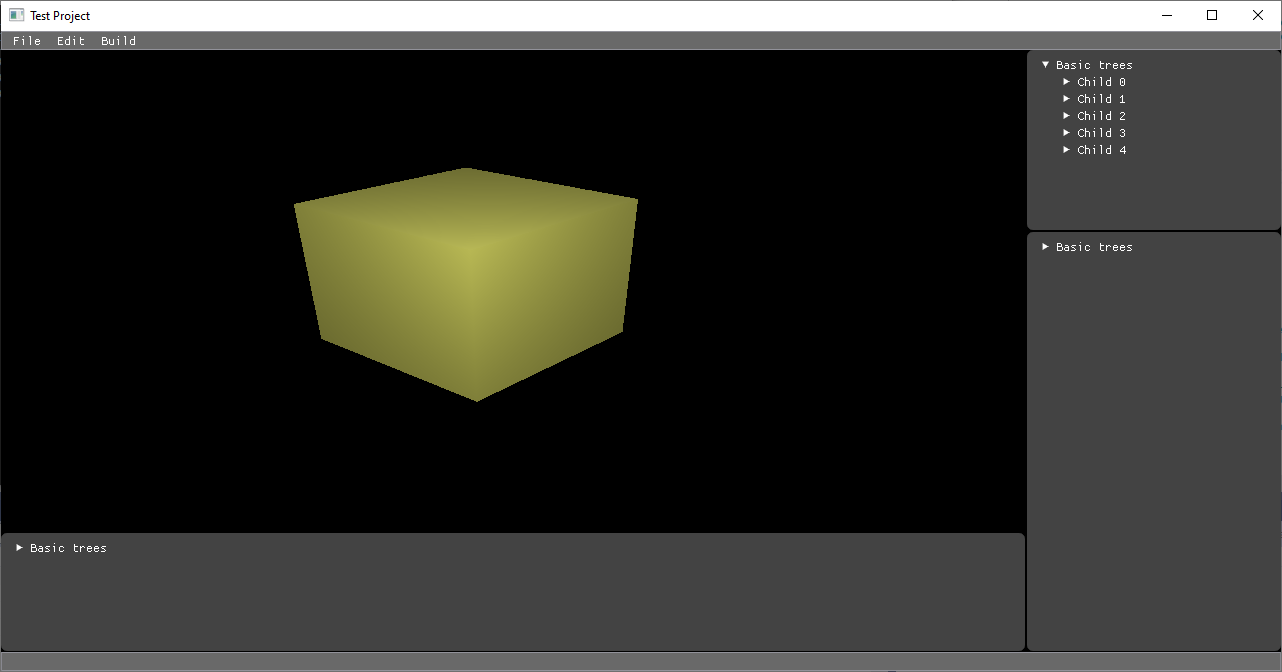
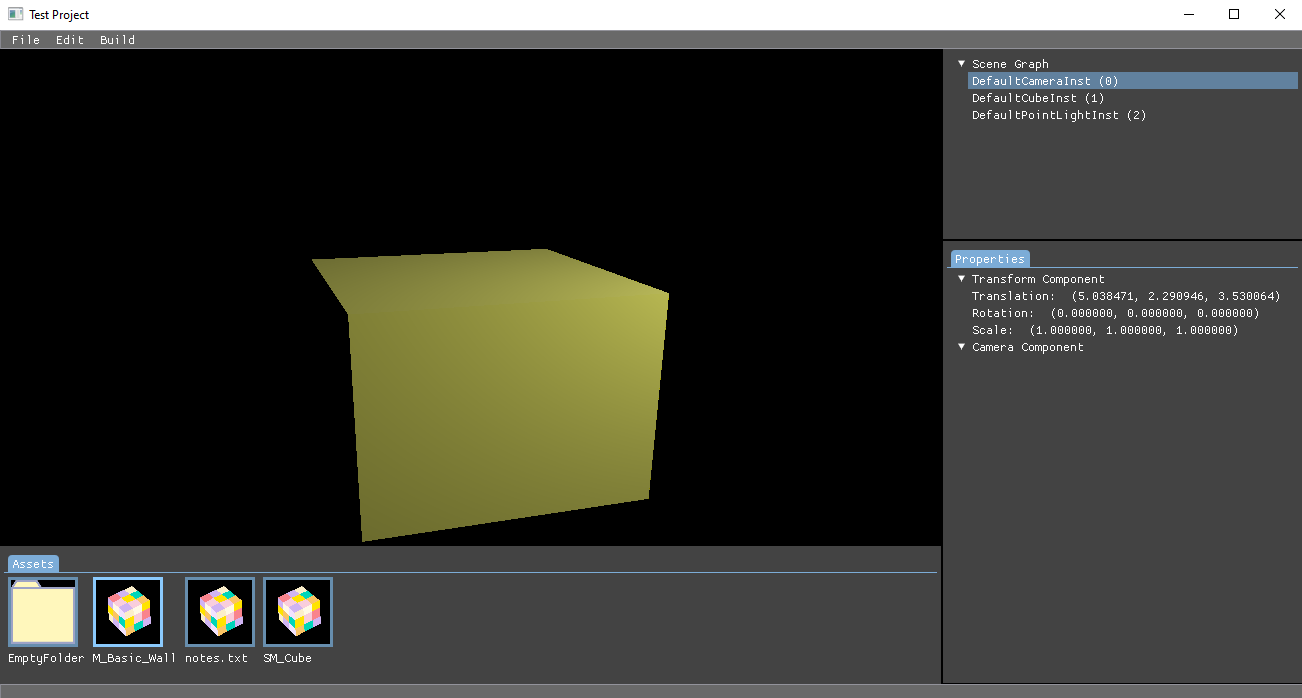
Asset Folder assets show

Changed region(s): [[0.0, 0.0, 1.0, 1.0]]

diff --git a/editor/HedgeEditorGuiManager.cpp b/editor/HedgeEditorGuiManager.cpp
@@ -1,4 +1,5 @@
 #include "HedgeEditorGuiManager.h"
+#include "../core/HAssetRsrcManager.h"
 
 #include "imgui.h"
 #include "CustomDearImGuiLayout.h"
@@ -9,6 +10,8 @@
 #include "../scene/HScene.h"
 #include "../core/HEntity.h"
 #include "../core/HComponent.h"
+
+#include <filesystem>
 
 #include "stb_image.h"
 
@@ -30,6 +33,7 @@ namespace Hedge
     HedgeEditorGuiManager::~HedgeEditorGuiManager()
     {
         g_pGpuRsrcManager->DereferGpuImg(m_pAssetIconImg);
+        g_pGpuRsrcManager->DereferGpuImg(m_pFolderIconImg);
         delete m_pLayout;
     }
 
@@ -184,6 +188,31 @@ namespace Hedge
     }
 
     // ================================================================================================================
+    bool IsHAssetPackage(
+        std::string& pathStr)
+    {
+        bool isHAssetPackage = false;
+        for (const auto& entry : std::filesystem::directory_iterator(pathStr))
+        {
+            if (entry.is_regular_file())
+            {
+                std::string fileName = entry.path().filename().string();
+                if (fileName.size() > 3)
+                {
+                    std::string lastThree = fileName.substr(fileName.size() - 3);
+                    if (lastThree.compare("yml") == 0)
+                    {
+                        isHAssetPackage = true;
+                        break;
+                    }
+                }
+            }
+            
+        }
+        return isHAssetPackage;
+    }
+
+    // ================================================================================================================
     void HedgeEditorGuiManager::AssetWindow()
     {
         constexpr ImGuiWindowFlags TestWindowFlag = ImGuiWindowFlags_NoSavedSettings |
@@ -197,36 +226,60 @@ namespace Hedge
         ImGui::Begin("AssetWindow", nullptr, TestWindowFlag);
         
         HedgeEditorGuiManager* pEditorGuiManager = g_raiiManager.GetHedgeEditorGuiManager();
+        std::string assetFolderPath = g_raiiManager.GetAssetRsrcManager()->GetAssetFolderPath();
+        
 
         if (ImGui::BeginTabBar("##Tabs", ImGuiTabBarFlags_None))
         {
             if (ImGui::BeginTabItem("Assets"))
             {
-                for (int i = 0; i < 8; i++)
+                for(const auto& entry : std::filesystem::directory_iterator(assetFolderPath))
                 {
                     // UV coordinates are often (0.0f, 0.0f) and (1.0f, 1.0f) to display an entire textures.
                     // Here are trying to display only a 32x32 pixels area of the texture, hence the UV computation.
                     // Read about UV coordinates here: https://github.com/ocornut/imgui/wiki/Image-Loading-and-Displaying-Examples
-                    ImGui::PushID(i);
-                    if (i > 0)
-                    {
-                        ImGui::PushStyleVar(ImGuiStyleVar_FramePadding, ImVec2(i - 1.0f, i - 1.0f));
-                    }
+                    // ImGui::PushID(i);
+                    ImGui::PushStyleVar(ImGuiStyleVar_FramePadding, ImVec2(3.f, 3.f));
 
                     ImVec2 size = ImVec2(64.0f, 64.0f);                         // Size of the image we want to make visible
                     ImVec2 uv0 = ImVec2(0.0f, 0.0f);                            // UV coordinates for lower-left
                     ImVec2 uv1 = ImVec2(1.f, 1.f);    // UV coordinates for (32,32) in our texture
                     ImVec4 bg_col = ImVec4(0.0f, 0.0f, 0.0f, 1.0f);             // Black background
                     ImVec4 tint_col = ImVec4(1.0f, 1.0f, 1.0f, 1.0f);           // No tint
-                    if (ImGui::ImageButton("", (ImTextureID)pEditorGuiManager->m_assetIconDescSet, size, uv0, uv1, bg_col, tint_col))
+                    
+                    ImGui::BeginGroup();
+
+                    if (entry.is_regular_file())
                     {
-                        std::cout << "Asset button pushed" << std::endl;
+                        if (ImGui::ImageButton("", (ImTextureID)pEditorGuiManager->m_assetIconDescSet, size, uv0, uv1, bg_col, tint_col))
+                        {
+                            std::cout << "Asset file button pushed" << std::endl;
+                        }
                     }
-                    if (i > 0)
+                    else if (entry.is_directory())
                     {
-                        ImGui::PopStyleVar();
+                        if (IsHAssetPackage(entry.path().string()))
+                        {
+                            if (ImGui::ImageButton("", (ImTextureID)pEditorGuiManager->m_assetIconDescSet, size, uv0, uv1, bg_col, tint_col))
+                            {
+                                std::cout << "HAsset button pushed" << std::endl;
+                            }
+                        }
+                        else
+                        {
+                            if (ImGui::ImageButton("", (ImTextureID)pEditorGuiManager->m_folderIconDescSet, size, uv0, uv1, bg_col, tint_col))
+                            {
+                                std::cout << "Folder button pushed" << std::endl;
+                            }
+                        }
                     }
-                    ImGui::PopID();
+
+                    ImGui::Text(entry.path().filename().string().c_str());
+
+                    ImGui::EndGroup();
+
+                    ImGui::PopStyleVar();
+                    // ImGui::PopID();
                     ImGui::SameLine();
                 }
 
@@ -235,22 +288,6 @@ namespace Hedge
             ImGui::EndTabBar();
         }
 
-        /*
-        if (ImGui::TreeNode("Assets"))
-        {
-            for (int i = 0; i < 5; i++)
-            {
-                if (ImGui::TreeNode((void*)(intptr_t)i, "Child %d", i))
-                {
-                    ImGui::Text("blah blah");
-                    ImGui::SameLine();
-                    if (ImGui::SmallButton("button")) {}
-                    ImGui::TreePop();
-                }
-            }
-            ImGui::TreePop();
-        }
-        */
         ImGui::End();
         ImGui::PopStyleVar(1);
     }
@@ -508,35 +545,72 @@ namespace Hedge
         std::string editorRsrcDir(getenv("HEDGE_LIB"));
         editorRsrcDir += "\\EditorRsrcs";
 
-        std::string editorAssetIconAssetName = editorRsrcDir + "\\AssetIcon.png";
-
-        int iconWidth = 0;
-        int iconHeight = 0;
-        int iconComponent = 0;
-
-        unsigned char* iconData = stbi_load(editorAssetIconAssetName.c_str(),
-            &iconWidth, &iconHeight, &iconComponent, 0);
-
-        HGpuImgCreateInfo iconImgCreateInfo{};
+        // Load editor's asset icon image
         {
-            iconImgCreateInfo.allocFlags = VMA_ALLOCATION_CREATE_DEDICATED_MEMORY_BIT |
-                VMA_ALLOCATION_CREATE_HOST_ACCESS_SEQUENTIAL_WRITE_BIT;
-            iconImgCreateInfo.hasSampler = true;
-            iconImgCreateInfo.samplerInfo = Util::LinearRepeatSamplerInfo();
-            iconImgCreateInfo.imgExtent = Util::Depth1Extent3D(iconWidth, iconHeight);
-            iconImgCreateInfo.imgFormat = VK_FORMAT_R8G8B8A8_UNORM;
-            iconImgCreateInfo.imgSubresRange = Util::ImgSubRsrcRangeTexColor2D();
-            iconImgCreateInfo.imgUsageFlags = VK_IMAGE_USAGE_TRANSFER_DST_BIT | VK_IMAGE_USAGE_SAMPLED_BIT;
-            iconImgCreateInfo.imgViewType = VK_IMAGE_VIEW_TYPE_2D;
+            std::string editorAssetIconAssetName = editorRsrcDir + "\\AssetIcon.png";
+
+            int iconWidth = 0;
+            int iconHeight = 0;
+            int iconComponent = 0;
+
+            unsigned char* iconData = stbi_load(editorAssetIconAssetName.c_str(),
+                &iconWidth, &iconHeight, &iconComponent, 0);
+
+            HGpuImgCreateInfo iconImgCreateInfo{};
+            {
+                iconImgCreateInfo.allocFlags = VMA_ALLOCATION_CREATE_DEDICATED_MEMORY_BIT |
+                    VMA_ALLOCATION_CREATE_HOST_ACCESS_SEQUENTIAL_WRITE_BIT;
+                iconImgCreateInfo.hasSampler = true;
+                iconImgCreateInfo.samplerInfo = Util::LinearRepeatSamplerInfo();
+                iconImgCreateInfo.imgExtent = Util::Depth1Extent3D(iconWidth, iconHeight);
+                iconImgCreateInfo.imgFormat = VK_FORMAT_R8G8B8A8_UNORM;
+                iconImgCreateInfo.imgSubresRange = Util::ImgSubRsrcRangeTexColor2D();
+                iconImgCreateInfo.imgUsageFlags = VK_IMAGE_USAGE_TRANSFER_DST_BIT | VK_IMAGE_USAGE_SAMPLED_BIT;
+                iconImgCreateInfo.imgViewType = VK_IMAGE_VIEW_TYPE_2D;
+            }
+            m_pAssetIconImg = g_pGpuRsrcManager->CreateGpuImage(iconImgCreateInfo, "Editor Asset Icon PNG");
+
+            g_pGpuRsrcManager->SendDataToImage(m_pAssetIconImg,
+                Util::BufferImg2DCopy(iconWidth, iconHeight),
+                (void*)iconData, iconWidth * iconHeight * 4);
+
+            g_pGpuRsrcManager->TransImageLayout(m_pAssetIconImg, VK_IMAGE_LAYOUT_SHADER_READ_ONLY_OPTIMAL);
+
+            AddTextureToImGUI(&m_assetIconDescSet, m_pAssetIconImg);
         }
-        m_pAssetIconImg = g_pGpuRsrcManager->CreateGpuImage(iconImgCreateInfo, "Editor Asset Icon PNG");
+        
+        // Load editor's folder icon image
+        {
+            std::string editorFolderIconAssetName = editorRsrcDir + "\\FolderIcon.png";
 
-        g_pGpuRsrcManager->SendDataToImage(m_pAssetIconImg,
-            Util::BufferImg2DCopy(iconWidth, iconHeight),
-            (void*)iconData, iconWidth * iconHeight * 4);
+            int iconWidth = 0;
+            int iconHeight = 0;
+            int iconComponent = 0;
 
-        g_pGpuRsrcManager->TransImageLayout(m_pAssetIconImg, VK_IMAGE_LAYOUT_SHADER_READ_ONLY_OPTIMAL);
+            unsigned char* iconData = stbi_load(editorFolderIconAssetName.c_str(),
+                &iconWidth, &iconHeight, &iconComponent, 0);
 
-        AddTextureToImGUI(&m_assetIconDescSet, m_pAssetIconImg);
+            HGpuImgCreateInfo iconImgCreateInfo{};
+            {
+                iconImgCreateInfo.allocFlags = VMA_ALLOCATION_CREATE_DEDICATED_MEMORY_BIT |
+                    VMA_ALLOCATION_CREATE_HOST_ACCESS_SEQUENTIAL_WRITE_BIT;
+                iconImgCreateInfo.hasSampler = true;
+                iconImgCreateInfo.samplerInfo = Util::LinearRepeatSamplerInfo();
+                iconImgCreateInfo.imgExtent = Util::Depth1Extent3D(iconWidth, iconHeight);
+                iconImgCreateInfo.imgFormat = VK_FORMAT_R8G8B8A8_UNORM;
+                iconImgCreateInfo.imgSubresRange = Util::ImgSubRsrcRangeTexColor2D();
+                iconImgCreateInfo.imgUsageFlags = VK_IMAGE_USAGE_TRANSFER_DST_BIT | VK_IMAGE_USAGE_SAMPLED_BIT;
+                iconImgCreateInfo.imgViewType = VK_IMAGE_VIEW_TYPE_2D;
+            }
+            m_pFolderIconImg = g_pGpuRsrcManager->CreateGpuImage(iconImgCreateInfo, "Editor Folder Icon PNG");
+
+            g_pGpuRsrcManager->SendDataToImage(m_pFolderIconImg,
+                Util::BufferImg2DCopy(iconWidth, iconHeight),
+                (void*)iconData, iconWidth * iconHeight * 4);
+
+            g_pGpuRsrcManager->TransImageLayout(m_pFolderIconImg, VK_IMAGE_LAYOUT_SHADER_READ_ONLY_OPTIMAL);
+
+            AddTextureToImGUI(&m_folderIconDescSet, m_pFolderIconImg);
+        }
     }
 }

diff --git a/editor/HedgeEditorGuiManager.h b/editor/HedgeEditorGuiManager.h
@@ -60,5 +60,10 @@ namespace Hedge
 
         HGpuImg* m_pAssetIconImg;
         VkDescriptorSet m_assetIconDescSet;
+
+        HGpuImg* m_pFolderIconImg;
+        VkDescriptorSet m_folderIconDescSet;
+
+        std::string m_currentAssetDir;
     };
 }
